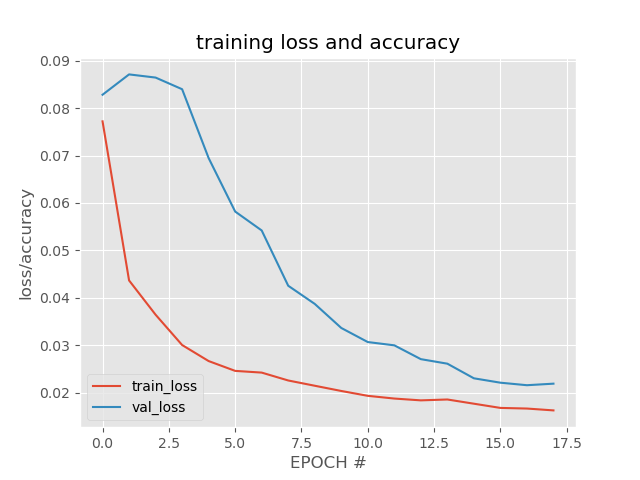
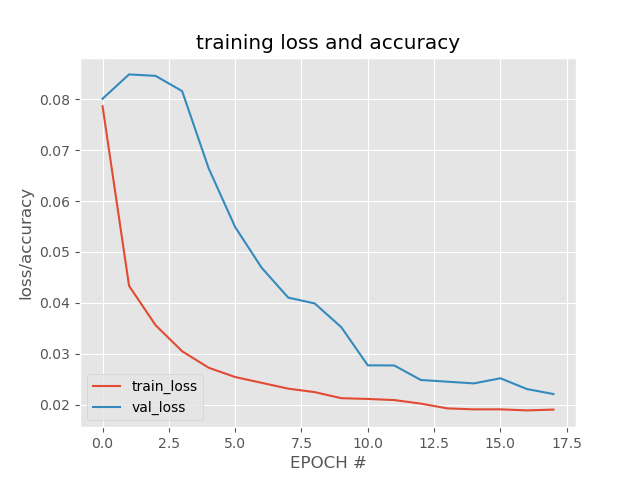
retrained tops, added reference to codes, deleted unnecessary print statements, updating readme

diff --git a/pyimagesearch/convautoencoder.py b/pyimagesearch/convautoencoder.py
@@ -1,3 +1,6 @@
+#Reference
+#Adrian Rosebrock, Autoencoders for Content-based Image Retrieval with Keras and TensorFlow, PyImageSearch, https://www.pyimagesearch.com/2020/03/30/autoencoders-for-content-based-image-retrieval-with-keras-and-tensorflow/, accessed on 14 July 2020
+
 # import the necessary packages
 from tensorflow.keras.layers import BatchNormalization
 from tensorflow.keras.layers import Conv2D
@@ -14,7 +17,7 @@ import numpy as np
 
 class ConvAutoencoder:
 	@staticmethod
-	def build(width, height, depth, filters=(32, 64), latentDim=16):
+	def build(width, height, depth, filters=(32, 64), latentDim=12):
 		# initialize the input shape to be "channels last" along with
 		# the channels dimension itself
 		# channels dimension itself

diff --git a/search_image.py b/search_image.py
@@ -1,3 +1,6 @@
+#Reference
+#Adrian Rosebrock, Autoencoders for Content-based Image Retrieval with Keras and TensorFlow, PyImageSearch, https://www.pyimagesearch.com/2020/03/30/autoencoders-for-content-based-image-retrieval-with-keras-and-tensorflow/, accessed on 14 July 2020
+
 from tensorflow.keras.models import Model
 from tensorflow.keras.models import load_model
 from tensorflow.keras.datasets import mnist
@@ -109,5 +112,4 @@ def search(query):
             pass
         else:
             appeared_image.append(tops[images_indexes[i]])
-            print(query)
             return images_indexes[i]

diff --git a/wardrobe_image_version.py b/wardrobe_image_version.py
@@ -1,3 +1,6 @@
+#Reference
+#TheComeUpCode, WardrobeApp, https://github.com/TheComeUpCode/WardrobeApp.git
+
 import os
 import random
 
@@ -102,7 +105,6 @@ class wardrobeApp:
         self.top_image_path = self.top_images[new_top_index]
         self.update_image(self.bottom_images[new_bottom_index], self.bottom_image_label)
         self.bottom_image_path = self.bottom_images[new_bottom_index]
-        print(self.top_image_path)
 
         #clear previos search engine history if user decided to generate new random outfit
         search_image.clear_previous_search_data()

diff --git a/index_images.py b/index_images.py
@@ -1,3 +1,6 @@
+#Reference
+#Adrian Rosebrock, Autoencoders for Content-based Image Retrieval with Keras and TensorFlow, PyImageSearch, https://www.pyimagesearch.com/2020/03/30/autoencoders-for-content-based-image-retrieval-with-keras-and-tensorflow/, accessed on 14 July 2020
+
 from tensorflow.keras.models import Model
 from tensorflow.keras.models import load_model
 from tensorflow.keras.datasets import mnist

diff --git a/index_images_bottoms.py b/index_images_bottoms.py
@@ -1,3 +1,6 @@
+#Reference
+#Adrian Rosebrock, Autoencoders for Content-based Image Retrieval with Keras and TensorFlow, PyImageSearch, https://www.pyimagesearch.com/2020/03/30/autoencoders-for-content-based-image-retrieval-with-keras-and-tensorflow/, accessed on 14 July 2020
+
 from tensorflow.keras.models import Model
 from tensorflow.keras.models import load_model
 from tensorflow.keras.datasets import mnist

diff --git a/search_image_bottoms.py b/search_image_bottoms.py
@@ -1,3 +1,6 @@
+#Reference
+#Adrian Rosebrock, Autoencoders for Content-based Image Retrieval with Keras and TensorFlow, PyImageSearch, https://www.pyimagesearch.com/2020/03/30/autoencoders-for-content-based-image-retrieval-with-keras-and-tensorflow/, accessed on 14 July 2020
+
 from tensorflow.keras.models import Model
 from tensorflow.keras.models import load_model
 from tensorflow.keras.datasets import mnist

diff --git a/pyimagesearch/convautoencoder_bottoms.py b/pyimagesearch/convautoencoder_bottoms.py
@@ -1,3 +1,6 @@
+#Reference
+#Adrian Rosebrock, Autoencoders for Content-based Image Retrieval with Keras and TensorFlow, PyImageSearch, https://www.pyimagesearch.com/2020/03/30/autoencoders-for-content-based-image-retrieval-with-keras-and-tensorflow/, accessed on 14 July 2020
+
 # import the necessary packages
 from tensorflow.keras.layers import BatchNormalization
 from tensorflow.keras.layers import Conv2D

diff --git a/train_autoencoder_bottom.py b/train_autoencoder_bottom.py
@@ -1,3 +1,6 @@
+#Reference
+#Adrian Rosebrock, Autoencoders for Content-based Image Retrieval with Keras and TensorFlow, PyImageSearch, https://www.pyimagesearch.com/2020/03/30/autoencoders-for-content-based-image-retrieval-with-keras-and-tensorflow/, accessed on 14 July 2020
+
 #training autoencoder for bottoms images
 #set the matplotlib nbackend so figures can be saved in background
 import matplotlib

diff --git a/train_autoencoder.py b/train_autoencoder.py
@@ -1,3 +1,6 @@
+#Reference
+#Adrian Rosebrock, Autoencoders for Content-based Image Retrieval with Keras and TensorFlow, PyImageSearch, https://www.pyimagesearch.com/2020/03/30/autoencoders-for-content-based-image-retrieval-with-keras-and-tensorflow/, accessed on 14 July 2020
+
 #training autoencoder for tops images
 #set the matplotlib nbackend so figures can be saved in background
 import matplotlib

diff --git a/wardrobe_csv_version.py b/wardrobe_csv_version.py
@@ -1,3 +1,6 @@
+#Reference
+#TheComeUpCode, WardrobeApp, https://github.com/TheComeUpCode/WardrobeApp.git
+
 #For reading the csv which extracts images from the web in real time when requested 
 #instead of requiring to download all the images for the code
 #ONLY in random wardrobe version (NO ML)

diff --git a/readme.md b/readme.md
@@ -1,43 +1,89 @@
-# Wardrobe
+# Personalised Wardrobe
 
-Wardrobe is a Python programme to generate random outfit from the csv database
+A wardrobe to generate random outfit ideas and provides suggestions based on your previous preference.
 (current data scraped from H.M using BeautifulSoup)
-
 
 ## Current Version
 
-Only worked on Man's clothing. Will scrape more data from woman's section soon for Machine Learning.
+Only worked on Man's clothing. Will scrape more data from woman's section later and develop and woman wardrobe as well.
 
 ## Prerequistes
 
-* Python 2.6 or greater
+* Python 3.5 or greater
 * pip package management tool
+* pip 19.0 or greater
+* Ubuntu 16.04 or later (64-bit)
+* macOS 10.12.6 (Sierra) or later (64-bit)
+* Windows 7 or later (64-bit)
+Most of them are the basic requirements for tensorflow
 
-## Local Setup
+## Installing dependencies
 
 1. To install all dependencies 
 ```bash
 pip install -r dependencies.txt
 ```
+2. For tensorflow installation, please refer to https://www.tensorflow.org/install/pip
 
-2. Run the python script
+3. (Optional) If you want to utilize GPUs when running tensorflow, please refer to https://www.tensorflow.org/install/gpu 
+
+## Local Setup
+
+* To run the wardrobe app with existing database (Images currently from H.M websites)
+1. Run the python script
 ```bash
-python play2.py
+python wardrobe_image_version.py
 ```
 
-3. Scraping website (Optional)
+* To setup your own database
+1. Upload images to folder 'tops' & 'bottoms' respectively
+
+2. Train the models
+    * Train the Tops autoencoder model
+    ```bash
+    python train_autoencoder.py --model output/autoencoder.h5 --vis output/recon_vis.png --plot output/plot.png
+    ```
+    * Train the Bottoms autoencoder model
+    ```bash
+    python train_autoencoder_bottom.py --model output/autoencoder_bottoms.h5 --vis output/recon_vis.png --plot output/plot_bottoms.png
+    ```
+
+3. Indexing the training model features
+    * Index Tops model
+    ```bash
+    python index_images.py --model output/autoencoder.h5 --index output/index.pickle
+    ```
+
+    * Index Bottoms model
+    ```bash
+    python index_images_bottoms.py --model output/autoencoder_bottoms.h5 --index output/index_bottoms.pickle
+    ```
+4. Run the wardrobe app 
+```bash
+python wardrobe_image_version.py
+```
+* To webscrape (optional)
+1. Scraping website (Optional)
 ```bash
 python scrape.py
 ```
 (Please scrape with respect and not overshoot with requests to the server)
 
-## ToDoList
+## Project description
 
-1. Implement ML to generate outfit according to the user preference (tinder-like)
-(Recommendation welcomed! If you are interested in Machine Learning in Fashion industry please feel free to contact me)
-2. Migrate to SQL when needed
+The wardrobe is designed to generate random outfit ideas by looking up the database (Tops and Bottoms). When users like the current outfit by clicking 'Love it' Button, the machine learning model will intake the current images and perform query search in the database to find the most alike or similar outfits. 
+
+The neural network used here is autoencoder which is used commonly in image recognition. By importing the dataset, feature vectors are obtained through the layers and the model and allow us to quantify the features of the inputed images. Utilising such representation (the latent vector), similar outfit (images) are found by calculating the relative distance from the query images (outfit that the user likes).   
+
+## Future outlook
+
+The project is still far from perfect. First thing to be improved would be the features of the images. The training loss and validation loss could be further optimised to return a better trained model. 
+Also, instead of the current suggestions which compute both the tops and bottoms individually, the training model can be trained with combined images and respective score to allow a better representation of the outfit display (i.e. adding labels to the training data). In addition, the engine should be able to further rank the outfit with the feedback from the users to improve the existing trained model. 
+Lastly, presentation could be improved by displaying a web page by maybe using React instead of displaying with the python standard library tkinker. 
 
 ## Acknowledgements
-* Thank you to [TheComeUpCode](https://github.com/TheComeUpCode/WardrobeApp/) for inspiration.
+* Thank you to [TheComeUpCode](https://github.com/TheComeUpCode/WardrobeApp/) for inspiration of a random wardrobe.
 * Thank you to H.M. website for webscraping
+* Thank you to Adrian Rosebrock for the Autoencoder codes
+    * Adrian Rosebrock, Autoencoders for Content-based Image Retrieval with Keras and TensorFlow, PyImageSearch, https://www.pyimagesearch.com/2020/03/30/autoencoders-for-content-based-image-retrieval-with-keras-and-tensorflow/, accessed on 14 July 2020
 
